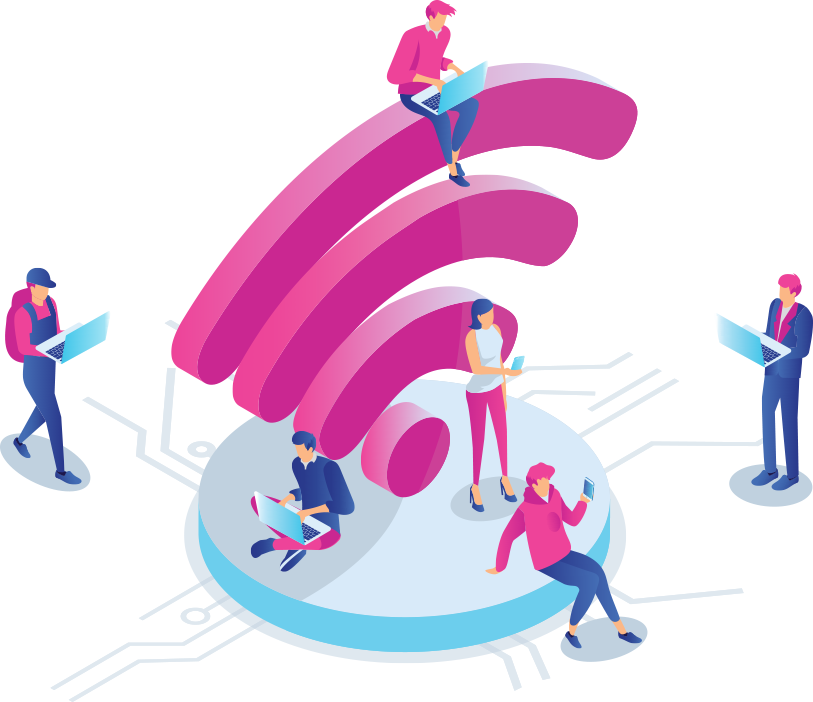
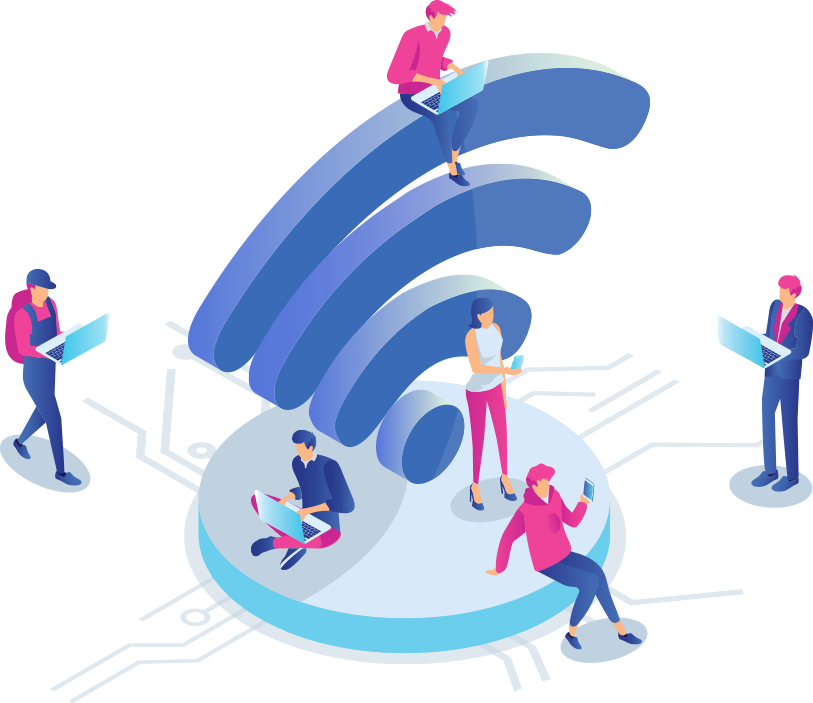
style: fix minor styles

diff --git a/src/components/landing/Navbar.js b/src/components/landing/Navbar.js
@@ -27,18 +27,20 @@ class Navbar extends Component {
   }
 
   handleScroll = () => {
-    if (window.scrollY > 20) {
-      $('#navbar-landing').css({
-        boxShadow: '1px 1px 12px 0px rgba(50, 50, 50, 0.35)',
-        backgroundColor: 'white'
-      });
-      $('#navbar-landing a').css('color', 'black');
-    } else {
-      $('#navbar-landing').css({
-        boxShadow: 'none',
-        backgroundColor: 'transparent'
-      });
-      $('#navbar-landing a').css('color', 'white');
+    if ($(document).width() > 385) {
+      if (window.scrollY > 20) {
+        $('#navbar-landing').css({
+          boxShadow: '1px 1px 12px 0px rgba(50, 50, 50, 0.35)',
+          backgroundColor: 'white'
+        });
+        $('#navbar-landing a').css('color', 'black');
+      } else {
+        $('#navbar-landing').css({
+          boxShadow: 'none',
+          backgroundColor: 'transparent'
+        });
+        $('#navbar-landing a').css('color', 'white');
+      }
     }
   };
 
@@ -50,9 +52,9 @@ class Navbar extends Component {
           id="navbar-landing"
         >
           <div className="container">
-            <a className="navbar-brand" href="/landing">
+            <Link className="navbar-brand" to="/">
               <img src={logo} alt="logo" />
-            </a>
+            </Link>
             <button
               className="navbar-toggler"
               type="button"
@@ -117,9 +119,13 @@ const StyledNavbar = styled(Navbar)`
 
   nav {
     background-color: white;
+    -webkit-box-shadow: 1px 1px 12px 0px rgba(50, 50, 50, 0.35);
+    -moz-box-shadow: 1px 1px 12px 0px rgba(50, 50, 50, 0.35);
+    box-shadow: 1px 1px 12px 0px rgba(50, 50, 50, 0.35);
 
     @media only screen and (min-width: ${props => props.theme.breakpoints.sm}) {
       background: transparent;
+      box-shadow: none;
     }
 
     > div {
@@ -135,23 +141,24 @@ const StyledNavbar = styled(Navbar)`
   }
 
   li > a.active {
-    border-radius: 0.25rem;
-    background-color: #49a1fc;
+    border-bottom: 3px solid #49a1fc;
   }
 
   li > a.always {
     border-radius: 0.25rem;
-    background-image: linear-gradient(150deg, #e44688 0%, #ba3cbd 100%);
+    border: 1px solid #49a1fc;
     color: white !important;
+    background-color: #49a1fc;
   }
 
   a.scrollspy.nav-link {
     color: black;
     font-size: 1.2rem;
-    padding: 0.3rem 0.6rem;
+    padding: 0.4rem 0.8rem 0.6rem 0.8rem;
+    cursor: pointer;
 
     &.active {
-      color: white !important;
+      color: #49a1fc !important;
     }
 
     @media only screen and (min-width: ${props => props.theme.breakpoints.sm}) {

diff --git a/src/components/landing/Features.js b/src/components/landing/Features.js
@@ -13,16 +13,17 @@ const Introduction = ({ className }) => (
   <div className={className}>
     <FixWidth>
       <Row type="flex">
-        <Col xs={24} sm={8}>
+        <Col xs={24} sm={12}>
           <p>
-            Connect high speed internet. Earn money from your wifi device. All
-            on Shared Wifi network
+            Connect high speed internet <br />
+            Earn money from your wifi device <br />
+            All on Shared Wifi network
           </p>
           <Link to="/signup" className="explore">
             Explore
           </Link>
         </Col>
-        <Col xs={24} sm={16}>
+        <Col xs={24} sm={12}>
           <img src={bg2} alt="header-bg-2" />
         </Col>
       </Row>
@@ -38,27 +39,33 @@ const StyledIntroduction = styled(Introduction)`
   }
 
   .explore {
+    background-color: #49a1fc;
+    color: white;
     border-radius: 0.25rem;
-    background-image: linear-gradient(150deg, #e44688 0%, #ba3cbd 100%);
-    color: white !important;
+    padding: 0.4rem 3rem 0.6rem 3rem;
     font-size: 1.25rem;
-    padding: 0.5rem 0.8rem;
     margin-top: 2rem;
     text-decoration: none;
   }
 
   p {
     font-family: 'utm_avo_bold';
-    font-size: 1.5rem;
-    line-height: 2rem;
-    color: #4d5761;
+    font-size: 0.9rem;
+    line-height: 1.6rem;
+    color: #6c747c;
     text-transform: uppercase;
-    margin: 3rem 0;
+    margin: 3rem 0 2rem 0;
+
+    @media only screen and (min-width: 380px) {
+      font-size: 1.1rem;
+    }
 
     @media only screen and (min-width: ${props => props.theme.breakpoints.xs}) {
       font-size: 1.75rem;
       line-height: 2.5rem;
+      margin: 3rem 0;
     }
+
     @media only screen and (min-width: ${props => props.theme.breakpoints.ul}) {
       margin-top: 15rem;
     }
@@ -73,9 +80,11 @@ const StyledIntroduction = styled(Introduction)`
   img {
     max-height: 600px;
     width: 100%;
+    margin-top: 2rem;
 
     @media only screen and (min-width: ${props => props.theme.breakpoints.sm}) {
       margin-left: 4rem;
+      margin-top: 0;
     }
 
     @media only screen and (min-width: ${props => props.theme.breakpoints.ul}) {

diff --git a/src/components/landing/Pricing.js b/src/components/landing/Pricing.js
@@ -243,7 +243,7 @@ export class Pricing extends Component {
                 <CardText>
                   {/* <Personal>business</Personal> */}
                   <Free>
-                    Yearly <span>$100</span>
+                    Annually <span>$100</span>
                   </Free>
                   <StartGreat>Build a production-quanlity service!</StartGreat>
                   <Service>
